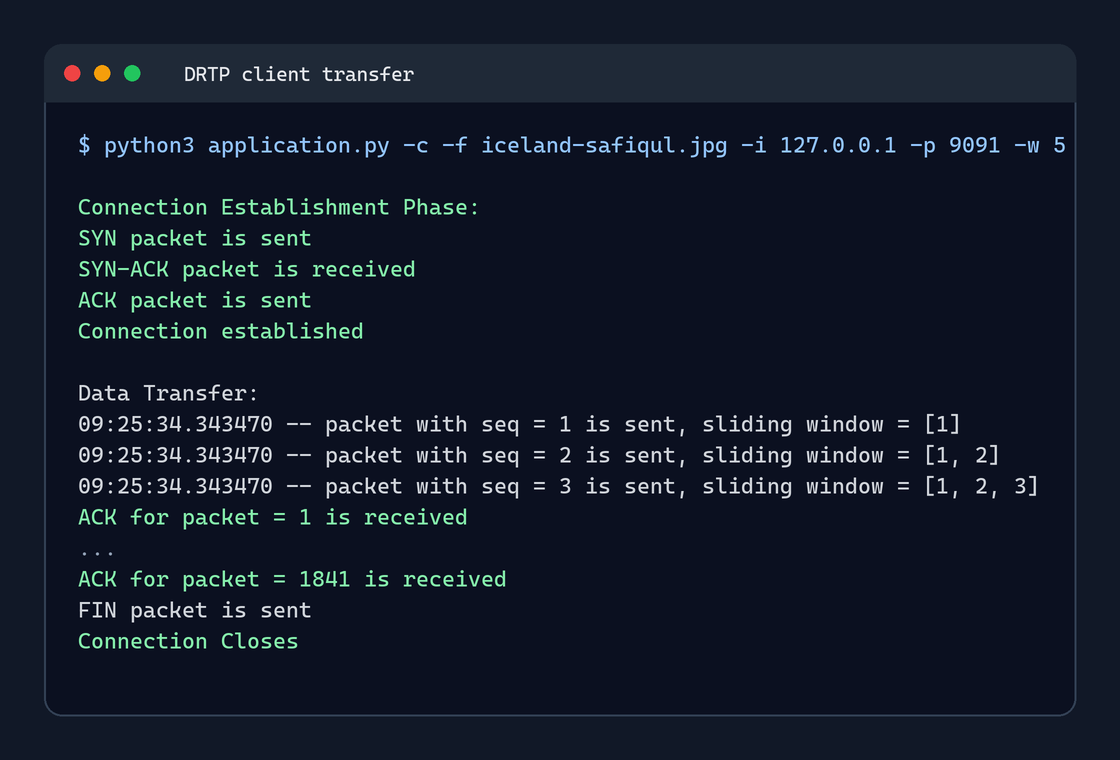
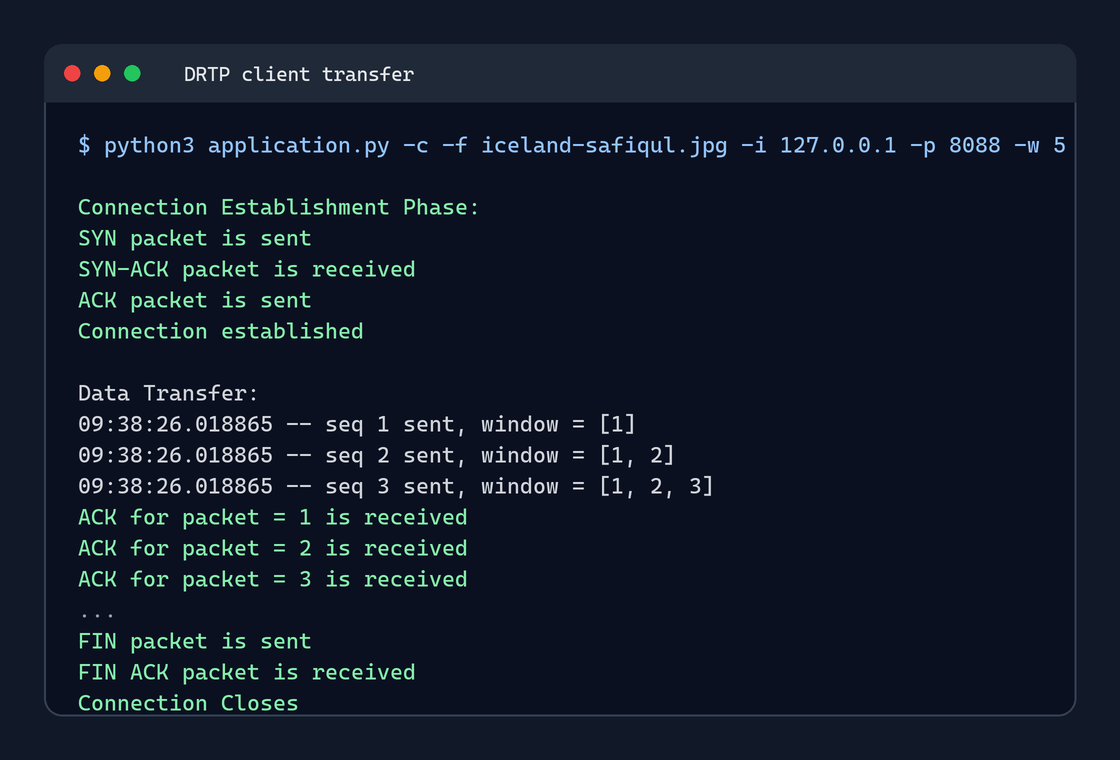
Fix connection teardown

diff --git a/src/server.py b/src/server.py
@@ -68,9 +68,9 @@ def server_start(ip, port, discard_seq):
 
                 expected_seq = 1     # Next expected sequence number from client
                 f = None             # File object for writing received data
+                total_bytes_received = 0
                 start_time = time.time()  # Record transfer start time
 
-                # --- Main Data Reception Loop ---
                 while True:
                     try:
                         server_socket.settimeout(0.4)  # Short timeout for retransmissions
@@ -89,6 +89,17 @@ def server_start(ip, port, discard_seq):
                         header = packet[:8]
                         seq, ack, flags, win = struct.unpack('!HHHH', header)
                         data = packet[8:]
+
+                        if flags & FLAG_FIN:
+                            print("FIN packet is received")
+                            fin_ack_flags = FLAG_ACK | FLAG_FIN
+                            fin_ack = struct.pack('!HHHH', 0, seq + 1, fin_ack_flags, 0)
+                            try:
+                                server_socket.sendto(fin_ack, addr)
+                            except socket.error as e:
+                                print("[-] Socket error during sendto: {}".format(e))
+                            print("FIN ACK packet is sent")
+                            break
 
                         # Discard packet with specified sequence for testing (once)
                         if discard_seq == seq and not discarded:
@@ -143,19 +154,6 @@ def server_start(ip, port, discard_seq):
                                 print(f"{datetime.now().strftime('%H:%M:%S.%f')} -- out-of-order packet {seq} is received")
                                 continue
 
-                            # If FIN flag is present, begin teardown handshake
-                            if flags & FLAG_FIN:
-                                print("FIN packet is received")
-                                fin_ack_flags = FLAG_ACK | FLAG_FIN
-                                fin_ack = struct.pack('!HHHH', 0, seq + 1, fin_ack_flags, 0)
-                                try:
-                                    server_socket.sendto(fin_ack, addr)
-                                except socket.error as e:
-                                    print("[-] Socket error during sendto: {}".format(e))
-                                print("FIN ACK packet is sent")
-                                print("Connection Closes")
-                                break
-
                     except Exception as e:
                         print("[-] Unexpected error during data transfer: {}".format(e))
                         break
@@ -174,6 +172,7 @@ def server_start(ip, port, discard_seq):
                 print(f"File saved as {filename}")
                 print(f"The throughput is {throughput_mbps:.2f} Mbps")
                 print("Connection Closes")
+                f = None
                 
     except KeyboardInterrupt:
         print("[-] Server shutting down...")
